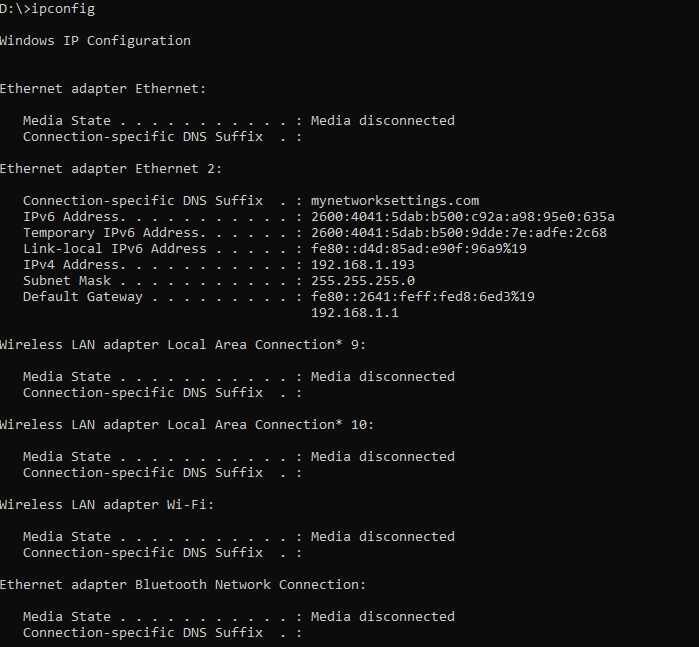
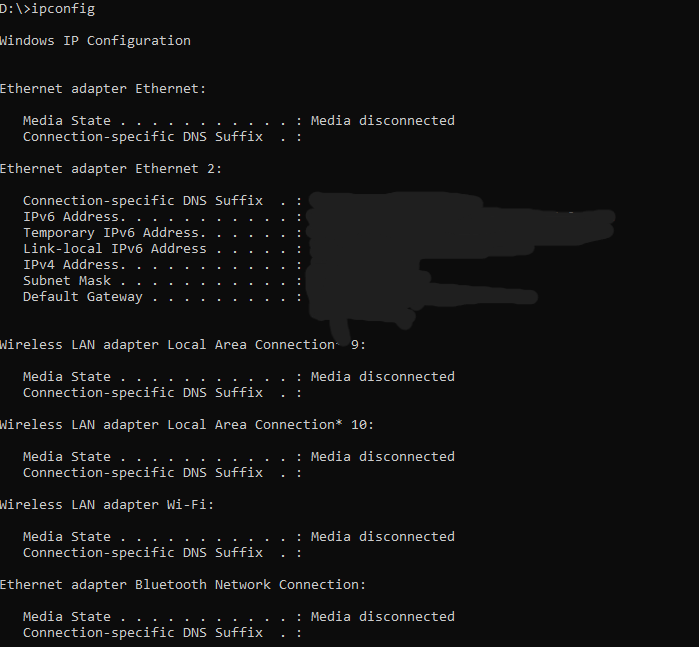
network entry edit

Changed region(s): [[0.4506, 0.3091, 0.8712, 0.4946]]

diff --git a/basic-network-diagnostics.md b/basic-network-diagnostics.md
@@ -1,0 +1,58 @@
+**BASIC NETWORK DIAGNOSTICS**
+
+##OBJECTIVE
+
+verify local network and internet connectivity
+
+##1. IP CONFIGURATION
+
+command:
+ ![ip configuration](../Screenshots/networking/ipconfig623.png)
+
+
+shows:
+-IPv4 address
+-default gateway
+-DNS servers
+
+---
+
+##2. LOCALHOST TEST
+
+command:
+ ![localhost ping](../Screenshots/networking/pinglocal623.png)
+
+verifies that TCP/IP stack is working
+
+---
+
+##3. GATEWAY TEST
+
+command:
+ ![gateway ping](../Screenshots/networking/pingrouter623.png)
+
+confirms connection to local router
+
+---
+
+##4. INTERNET TEST
+
+command:
+ ![internet ping](../Screenshots/networking/pinginternet623.png)
+
+confirms external network connectivity
+
+---
+
+##5. DNS RESOLUTION TEST
+
+command:
+ ![dns lookup](../Screenshots/networking/dnstest623.png)
+ 
+confirms DNS is resolving domain names correctly
+
+---
+
+##SUMMARY
+
+these simulations demonstrate basic network troubleshooting steps used in IT support roles to diagnose connectivity